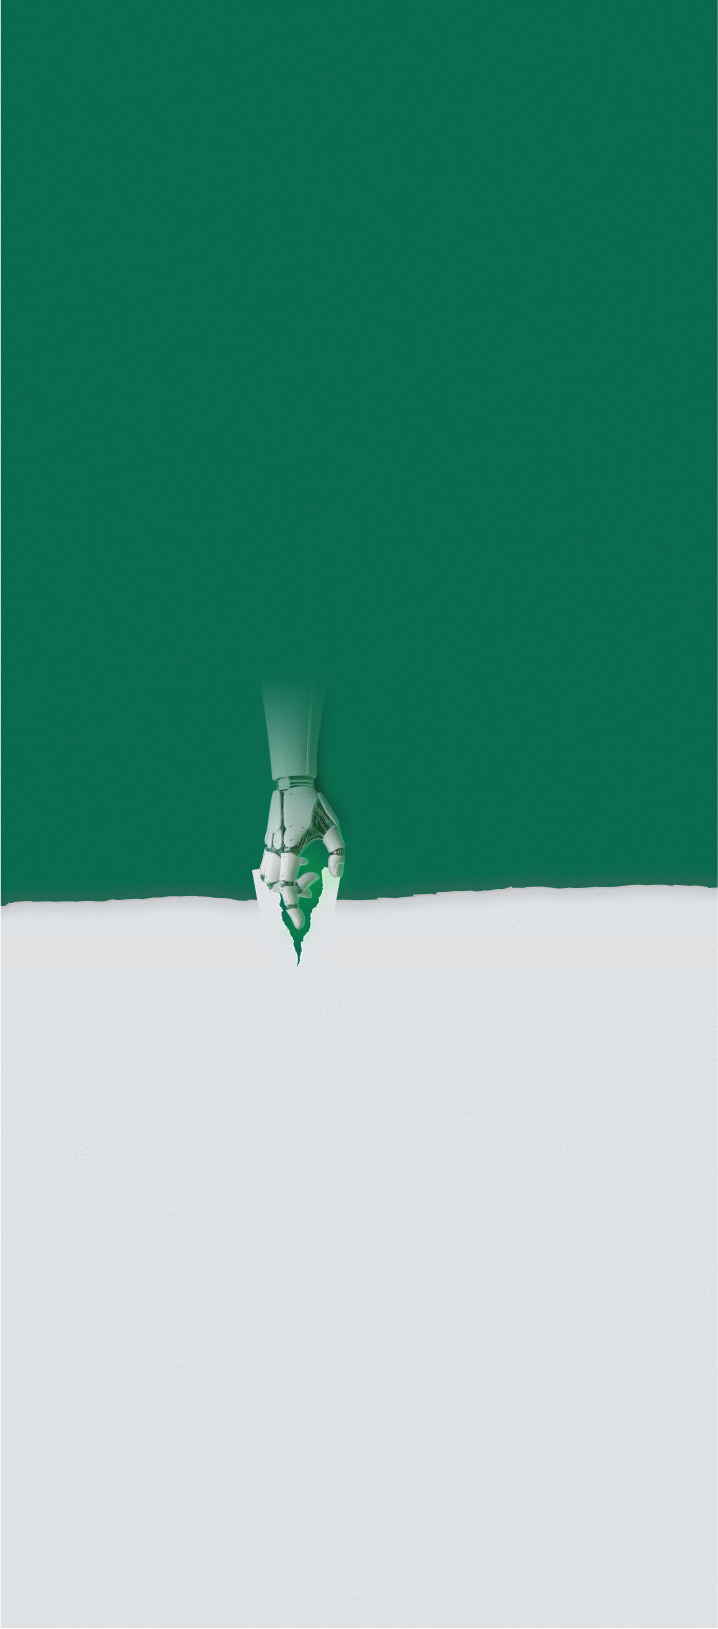
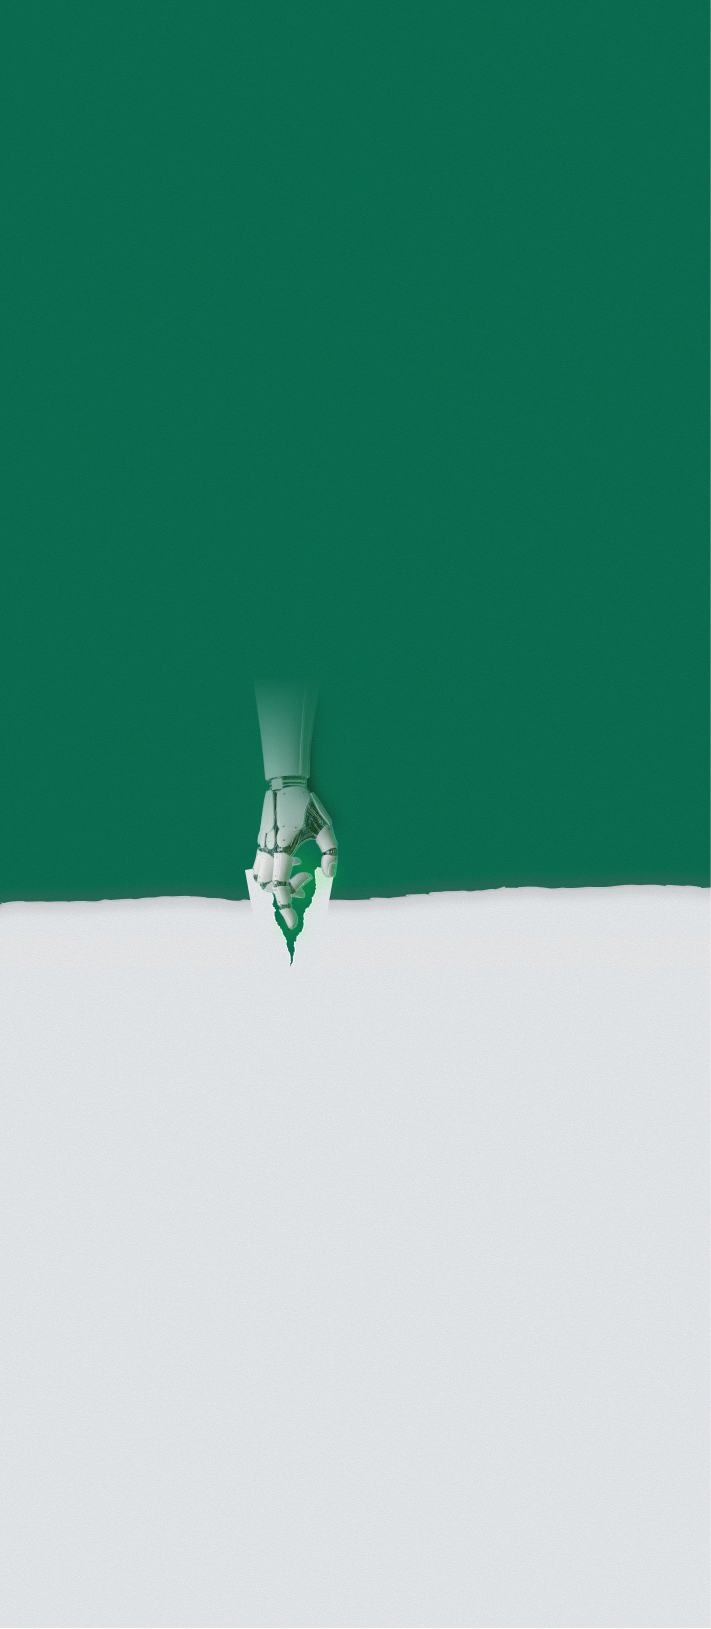
feat(company-profile): add website field to social media links
- Add website field to social media update service, hook, and form
- Display website in social media section with globe icon
- Add delete confirmation modal for social media removal
- Add console logs for debugging certificates and qualifications
- Improve select input styling for selected items
- Add max file size validation for CV upload (10MB)
- Update auth page text spacing and

Changed region(s): [[0.3404, 0.4604, 0.4951, 0.5832], [0.3404, 0.4297, 0.3713, 0.4604]]

diff --git a/src/features/company-profile/components/EditSocialMediaModal.tsx b/src/features/company-profile/components/EditSocialMediaModal.tsx
@@ -22,6 +22,7 @@ interface EditSocialMediaModalProps {
 }
 
 type FormValues = {
+    website: string;
     linkedIn: string;
     facebook: string;
     twitter: string;
@@ -41,6 +42,7 @@ export function EditSocialMediaModal({ open, onOpenChange, companyProfileData }:
         reset,
     } = useForm<FormValues>({
         defaultValues: {
+            website: companyProfileData?.website,
             linkedIn: companyProfileData?.linkedin,
             facebook: companyProfileData?.facebook,
             twitter: companyProfileData?.twitter,
@@ -52,6 +54,7 @@ export function EditSocialMediaModal({ open, onOpenChange, companyProfileData }:
     useEffect(() => {
         if (open) {
             reset({
+                website: companyProfileData?.website,
                 linkedIn: companyProfileData?.linkedin,
                 facebook: companyProfileData?.facebook,
                 twitter: companyProfileData?.twitter,
@@ -64,6 +67,7 @@ export function EditSocialMediaModal({ open, onOpenChange, companyProfileData }:
     const onSubmit = (data: FormValues) => {
         updateSocialLinks(
             {
+                website: data.website,
                 linkedin: data.linkedIn,
                 facebook: data.facebook,
                 twitter: data.twitter,
@@ -75,7 +79,7 @@ export function EditSocialMediaModal({ open, onOpenChange, companyProfileData }:
                     toast.success("Social links updated successfully");
                     onOpenChange(false);
                 },
-                onError: (error: any) => {
+                onError: (error: Error) => {
                     toast.error(error?.message || "Something went wrong");
                 },
             }
@@ -91,6 +95,14 @@ export function EditSocialMediaModal({ open, onOpenChange, companyProfileData }:
                         <DialogTitle className="text-[28px] text-black">Edit Online profile</DialogTitle>
                     </DialogHeader>
 
+                    <InputField
+                        id="website"
+                        type="text"
+                        label="Website"
+                        placeholder="ex: www.example.com"
+                        icon={<Image src='/assets/icons/social-icons/globe.svg' alt="website icon" width={20} height={20} />}
+                        {...register("website")}
+                    />
                     <InputField
                         id="linkedIn"
                         type="text"

diff --git a/src/features/company-profile/components/SocialMediaCard.tsx b/src/features/company-profile/components/SocialMediaCard.tsx
@@ -4,6 +4,8 @@ import Image from "next/image"
 import TextSkeleton from "./TextSkeleton";
 import { useDeleteSocialLinks } from "../hooks/useDeleteSocialLinks";
 import { useSession } from "next-auth/react";
+import { useState } from "react";
+import DeleteModal from "@/shared/components/modals/DeleteModal";
 
 interface ISocialMediaProps {
     title: string;
@@ -14,19 +16,21 @@ interface ISocialMediaProps {
 
 const SocialMediaCard = ({ link, title, src, isPending }: ISocialMediaProps) => {
     const { data: session } = useSession();
+    const [deleteSocialMedia, setDeleteSocialMedia] = useState(false)
+
     const token = session?.accessToken as string;
     const { mutate: deleteSocialLinks, isPending: isPendingDelete } = useDeleteSocialLinks({ token });
 
     const handleDelete = ({ title }: { title: string }) => {
-        console.log("titel", title);
         if (title === "X/Twitter") {
             deleteSocialLinks({ social: "twitter" });
         } else {
             deleteSocialLinks({ social: title.toLowerCase() });
         }
+        setDeleteSocialMedia(false)
     }
 
-    return (
+    return (<>
         <div className="flex justify-between items-center">
             <div className="flex items-center gap-4">
                 <Image src={src} alt="facebook icon" width={35} height={35} />
@@ -37,8 +41,18 @@ const SocialMediaCard = ({ link, title, src, isPending }: ISocialMediaProps) => 
                     </Link>
                 </div>
             </div>
-            <Trash2 className="text-red-400 cursor-pointer" width={20} height={20} onClick={() => handleDelete({ title })} />
+            <Trash2 className="text-red-400 cursor-pointer" width={20} height={20} onClick={() => setDeleteSocialMedia(true)} />
         </div>
+        <DeleteModal
+            open={deleteSocialMedia}
+            onOpenChange={setDeleteSocialMedia}
+            title="Do you want to delete this social media account?"
+            description="The account will be permanently deleted from your account and you will not be able to recover it later. Please ensure before proceeding, as this action cannot be undone."
+            cancelLabel="Back"
+            onConfirm={() => handleDelete({ title })}
+            isLoading={isPendingDelete}
+        />
+    </>
     )
 }
 

diff --git a/src/features/auth/components/side-content/SideContent.tsx b/src/features/auth/components/side-content/SideContent.tsx
@@ -25,20 +25,21 @@ const SideContent = () => {
         ) : (
           <>
             <h2 className="text-[clamp(1.5rem,4vw,3rem)] font-bold text-white">
-              Match Faster
+              Match Faster ,
             </h2>
-            <h3 className="mb-4 text-[clamp(1.5rem,4vw,3rem)] font-bold">
-              work smarter
+            <h3 className="mb-12 text-[clamp(1.5rem,4vw,3rem)] font-bold">
+              Work Smarter
             </h3>
           </>
         )}
 
         <p className="text-justify text-[clamp(.8rem,4vw,1.2rem)] [word-spacing:0.1rem]">
-          {(isEmployerLogin || isCandidateLogin) &&
+          {isEmployerLogin &&
             `With smart tools and AI-powered insights, joocare helps you find the right opportunity and land the job you deserve with confidence.`}
+          {isCandidateLogin &&
+            `Joocare connects professionals with relevant opportunities through data‑driven insights, supporting informed career decisions and long‑term growth.`}
           {isEmployerRegister &&
-            `
-            Set the foundation for your hiring success. By finalizing your account details, you unlock Joocare’s smart matching tools and predictive insights to streamline your entire recruitment lifecycle`}
+            `Set the foundation for your hiring success. By finalizing your account details, you unlock Joocare’s smart matching tools and predictive insights to streamline your entire recruitment lifecycle`}
           {isCandidateRegister &&
             `With smart tools and AI-powered insights, joocare helps you find the right opportunity and land the job you deserve with confidence.`}
         </p>

diff --git a/src/shared/components/FilepondUpload.tsx b/src/shared/components/FilepondUpload.tsx
@@ -24,6 +24,7 @@ interface FilepondUploadProps {
   value?: string;                          // stores data.image path
   onUploadSuccess: (imagePath: string) => void; // called after upload
   onRemove?: () => void;
+  maxSize?: number
 }
 
 export function FilepondUpload({
@@ -37,8 +38,11 @@ export function FilepondUpload({
   allowImagePreview = false,
   className,
   error,
-  hint
+  hint,
+  maxSize,
 }: FilepondUploadProps) {
+  const MAX_SIZE = maxSize || 10 * 1024 * 1024
+  // console.log(maxSize);
 
   return (
     <div className={`w-full space-y-2 ${className}`}>
@@ -63,6 +67,23 @@ export function FilepondUpload({
         name={name}
         server={{
           process: (fieldName, file, _metadata, load, error, progress) => {
+
+            if (file.size > MAX_SIZE) {
+              const message = "Max file size is 10MB";
+
+              error(message);        // FilePond UI
+              onRemove?.();          // reset
+              onUploadSuccess("");   // clear value
+              if (typeof window !== "undefined") {
+                setTimeout(() => {
+                  error?.(message);
+                }, 0);
+              }
+
+              return {
+                abort: () => { },
+              };
+            }
             const formData = new FormData();
             formData.append("image", file);
 

diff --git a/src/features/company-profile/components/SocialMediaSection.tsx b/src/features/company-profile/components/SocialMediaSection.tsx
@@ -4,6 +4,7 @@ import { useState } from "react"
 import { EditSocialMediaModal } from "./EditSocialMediaModal"
 import SocialMediaCard from "./SocialMediaCard"
 import { TCompanyProfileViewModel } from "../types"
+import DeleteModal from "@/shared/components/modals/DeleteModal"
 
 const SocialMediaSection = ({ companyProfileData, isPending }: { companyProfileData: TCompanyProfileViewModel, isPending: boolean }) => {
     const [open, setOpen] = useState(false)
@@ -13,6 +14,9 @@ const SocialMediaSection = ({ companyProfileData, isPending }: { companyProfileD
                 <h2 className="text-xl font-semibold ">Social Media</h2>
                 {companyProfileData?.status !== "Draft" && <Edit2 size={22} className="cursor-pointer" onClick={() => setOpen(!open)} />}
             </div>
+            {companyProfileData?.website !== null &&
+                <SocialMediaCard title="website" link={companyProfileData?.website} src="/assets/icons/social-icons/globe.svg" isPending={isPending} />
+            }
             {companyProfileData?.linkedin !== null &&
                 <SocialMediaCard title="LinkedIn" link={companyProfileData?.linkedin} src="/assets/icons/social-icons/linkedin.svg" isPending={isPending} />
             }

diff --git a/src/features/company-profile/hooks/useUpdateSocialLinks.tsx b/src/features/company-profile/hooks/useUpdateSocialLinks.tsx
@@ -5,7 +5,7 @@ import { updateSocialLinksService } from "../services/update-social-links-servic
 export const useUpdateSocialLinks = ({ token }: { token: string }) => {
     const queryClient = useQueryClient();
     return useMutation({
-        mutationFn: (payload: { facebook: string; twitter: string; linkedin: string; instagram: string; snapchat: string; }) => updateSocialLinksService(payload, { token }),
+        mutationFn: (payload: { website: string; facebook: string; twitter: string; linkedin: string; instagram: string; snapchat: string; }) => updateSocialLinksService(payload, { token }),
         onSuccess: () => {
             queryClient.invalidateQueries({ queryKey: ["company-profile"] });
         },

diff --git a/src/features/auth/components/register-employer-content/FormCandidateRegister.tsx b/src/features/auth/components/register-employer-content/FormCandidateRegister.tsx
@@ -261,11 +261,12 @@ const FormCandidateRegister = () => {
 
           <FilepondUpload
             label="Upload CV"
-            value={field.value}                         // the stored path
-            onUploadSuccess={(imagePath) => field.onChange(imagePath)} // ✅ set path
-            onRemove={() => field.onChange("")}          // ✅ clear on remove
+            value={field.value}
+            onUploadSuccess={(imagePath) => field.onChange(imagePath)}
+            onRemove={() => field.onChange("")}
             allowMultiple={false}
             maxFiles={1}
+            maxSize={10 * 1024 * 1024}
             error={errors.uploadCV?.message}
           />
         )}

diff --git a/src/shared/components/MultiSelectInputField.tsx b/src/shared/components/MultiSelectInputField.tsx
@@ -271,7 +271,12 @@ export const MultiSelectInputField = React.forwardRef<
               ) : (
                 <ComboboxCollection>
                   {(item: Option, index: number) => (
-                    <ComboboxItem key={item.value} value={item}>
+                    <ComboboxItem key={item.value} value={item}
+                      className={cn(
+                        "flex items-center gap-2",
+                        value.includes(item.value ?? "") && "bg-accent text-accent-foreground"
+                      )}
+                    >
                       {item.image && (
                         <Image
                           src={item.image}

diff --git a/src/shared/components/SelectInputField.tsx b/src/shared/components/SelectInputField.tsx
@@ -185,7 +185,11 @@ export const SelectInputField = React.forwardRef<
             >
               {(item: Option) => (
                 <React.Fragment key={item.value}>
-                  <ComboboxItem key={item.value} value={item}>
+                  <ComboboxItem key={item.value} value={item}
+                    className={cn(
+                      value === item.value && "bg-accent text-accent-foreground"
+                    )}
+                  >
                     {item.image && (
                       <Image
                         src={item.image}

diff --git a/src/app/[locale]/auth/(login-register-layout)/candidate/login/page.tsx b/src/app/[locale]/auth/(login-register-layout)/candidate/login/page.tsx
@@ -14,7 +14,7 @@ const LoginCandidatePage = () => {
       >
         {/* header text */}
         <h1>Welcome Back</h1>
-        <p className="text-[clamp(.8rem,4vw,1rem)] mt-1">
+        <p className="text-[clamp(.8rem,4vw,1rem)] mt-2">
           Take the next step in your professional career
         </p>
 

diff --git a/src/features/candidate-credentials/components/qualifications/QualificationCard.tsx b/src/features/candidate-credentials/components/qualifications/QualificationCard.tsx
@@ -63,6 +63,8 @@ export default function QualificationCard({
     });
   };
 
+  console.log("qualification s", qualification);
+
   return (
     <>
       <section className="flex flex-col justify-start gap-2 rounded-2xl border bg-white p-2 shadow sm:flex-row sm:items-center">

diff --git a/src/features/candidate-credentials/components/certificates/CertificateCard.tsx b/src/features/candidate-credentials/components/certificates/CertificateCard.tsx
@@ -64,6 +64,8 @@ export default function CertificateCard({
     });
   };
 
+  console.log("cetrification s", certificate);
+
   return (
     <>
       <section className="flex flex-col justify-start gap-2 rounded-2xl border bg-white p-2 shadow sm:flex-row sm:items-center">
